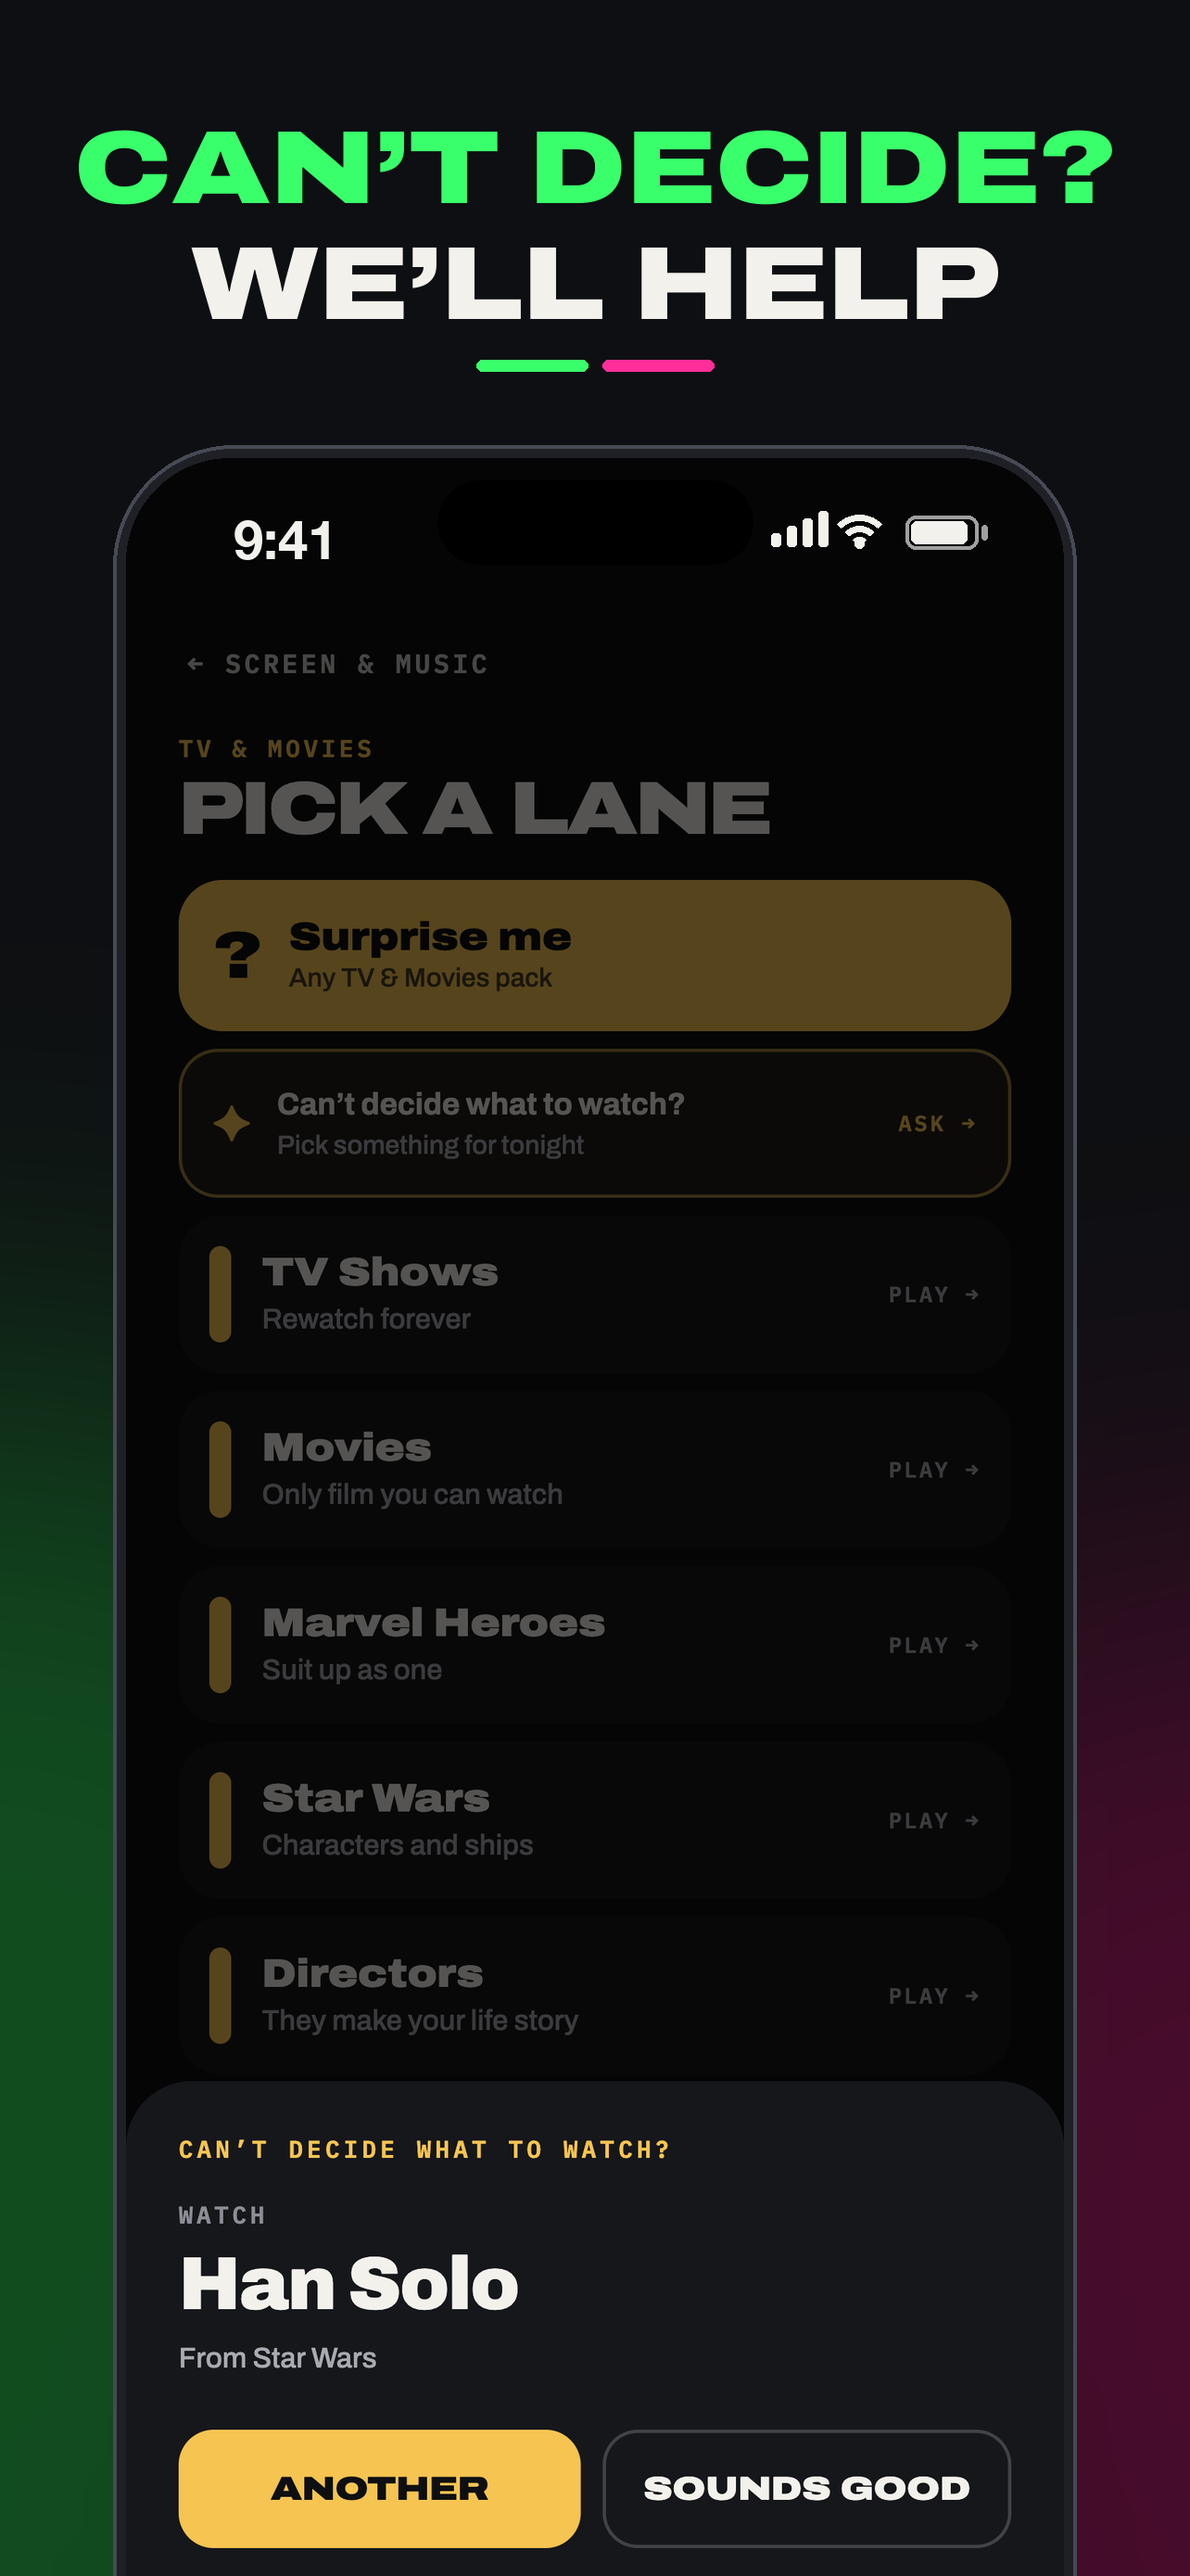
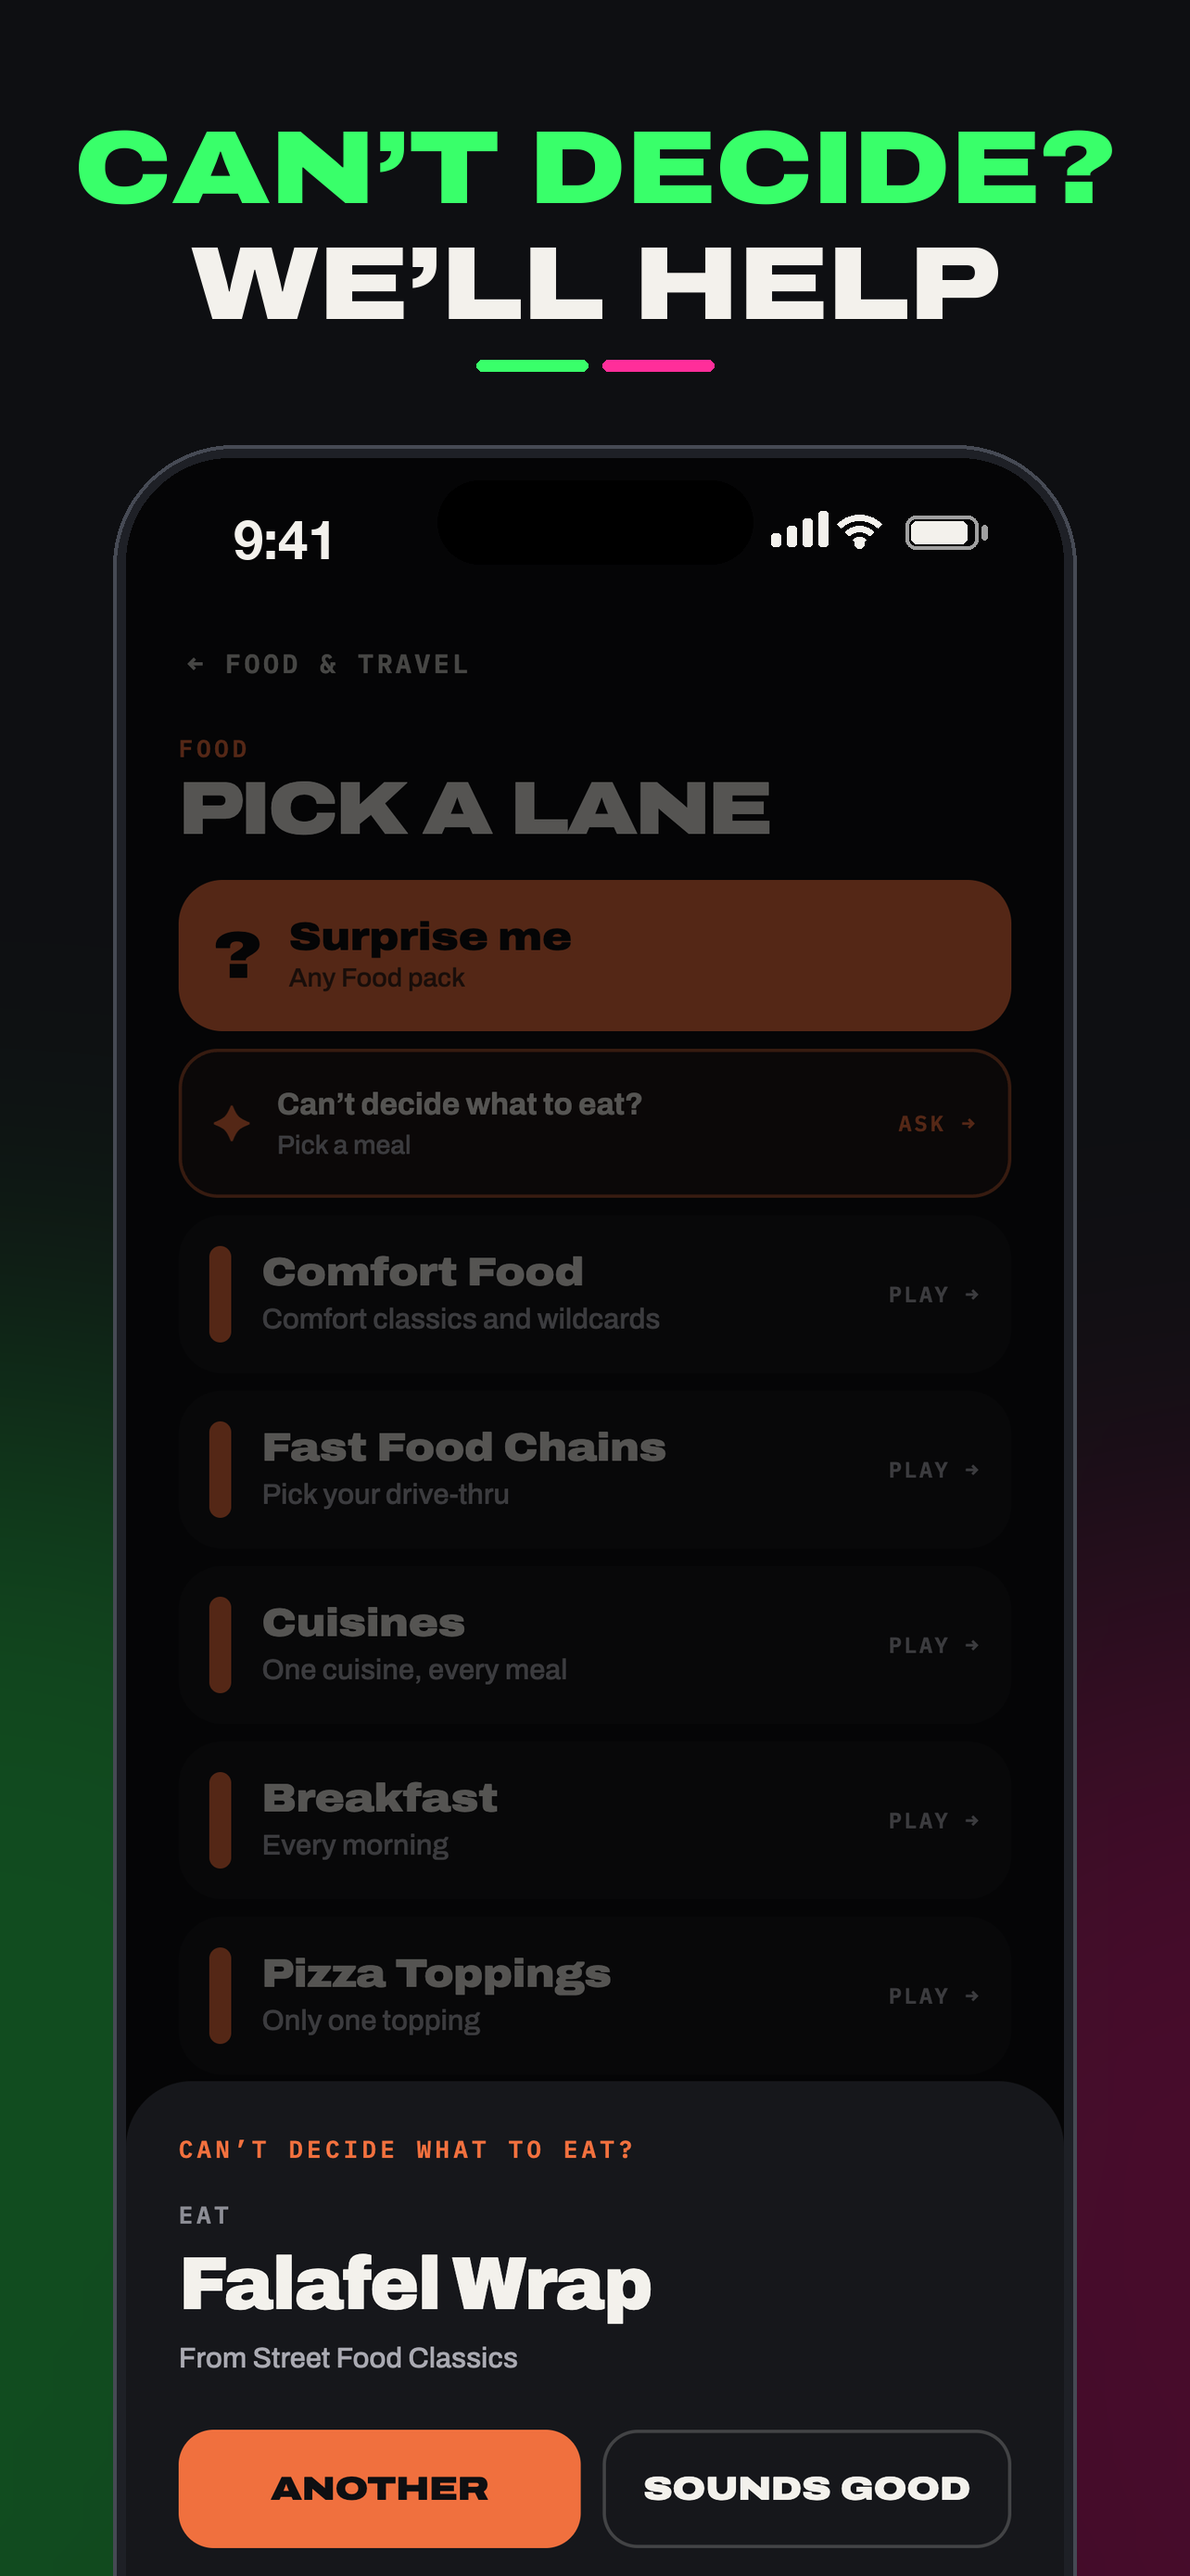
Fix App Review 2.3.7 + 2.5.4: no price words in screenshots, drop background audio and mic permission; neutral (food) store shots

diff --git a/design/store2/compose.py b/design/store2/compose.py
@@ -76,12 +76,12 @@ def compose(raw, l1, l2, c1, c2, out):
 S=[
  ('raw-01-home.png','TWO PLAYERS.','ONE PHONE.',GREEN,INK,'01-home.png'),
  ('raw-03c-landed.png','SPIN FOR','TONIGHT’S TOPIC',PINK,INK,'02-spin.png'),
- ('raw-04-item.png','EVERY ITEM','IS A SURPRISE',GREEN,INK,'03-surprise.png'),
- ('raw-05-bid.png','OUTBID THEM','OR BACK OUT',PINK,INK,'04-bidding.png'),
- ('raw-06-sold.png','SOLD TO THE','HIGHEST BIDDER',GREEN,INK,'05-sold.png'),
- ('raw-07-final.png','THEN SETTLE','WHO WON',PINK,INK,'06-final.png'),
- ('raw-decide.png','CAN’T DECIDE?','WE’LL HELP',GREEN,INK,'07-helper.png'),
- ('raw-02-topics.png','PLENTY FREE.','UNLOCK THE REST.',PINK,INK,'08-topics.png'),
+ ('food-04-item.png','EVERY ITEM','IS A SURPRISE',GREEN,INK,'03-surprise.png'),
+ ('food-05-bid.png','OUTBID THEM','OR BACK OUT',PINK,INK,'04-bidding.png'),
+ ('food-06-sold.png','SOLD TO THE','HIGHEST BIDDER',GREEN,INK,'05-sold.png'),
+ ('food-07-final.png','THEN SETTLE','WHO WON',PINK,INK,'06-final.png'),
+ ('food-decide.png','CAN’T DECIDE?','WE’LL HELP',GREEN,INK,'07-helper.png'),
+ ('raw-02-topics.png','A TOPIC FOR','EVERY CREW',PINK,INK,'08-topics.png'),
 ]
 import os
 os.makedirs('final',exist_ok=True)

diff --git a/design/store-creative/make.py b/design/store-creative/make.py
@@ -43,7 +43,7 @@ fs=font('Archivo-SemiExpanded-Black.ttf',84)
 text_c(d,W/2,400,'THE TWO-PLAYER AUCTION PARTY GAME',fs,PINK)
 shots=['01-home','03-surprise','04-bidding','05-sold']
 S='/Users/lafy/bid-wars/bid-wars/design/store2/'
-raws=['raw-01-home.png','raw-04-item.png','raw-05-bid.png','raw-06-sold.png']
+raws=['raw-01-home.png','food-04-item.png','food-05-bid.png','food-06-sold.png']
 pw=760; ph=int(pw*2778/1284); gap=110; total=4*pw+3*gap; x0=(W-total)//2; y0=640
 for i,r in enumerate(raws):
     s=Image.open(S+r).convert('RGB').resize((pw-28,ph-28),Image.LANCZOS)
